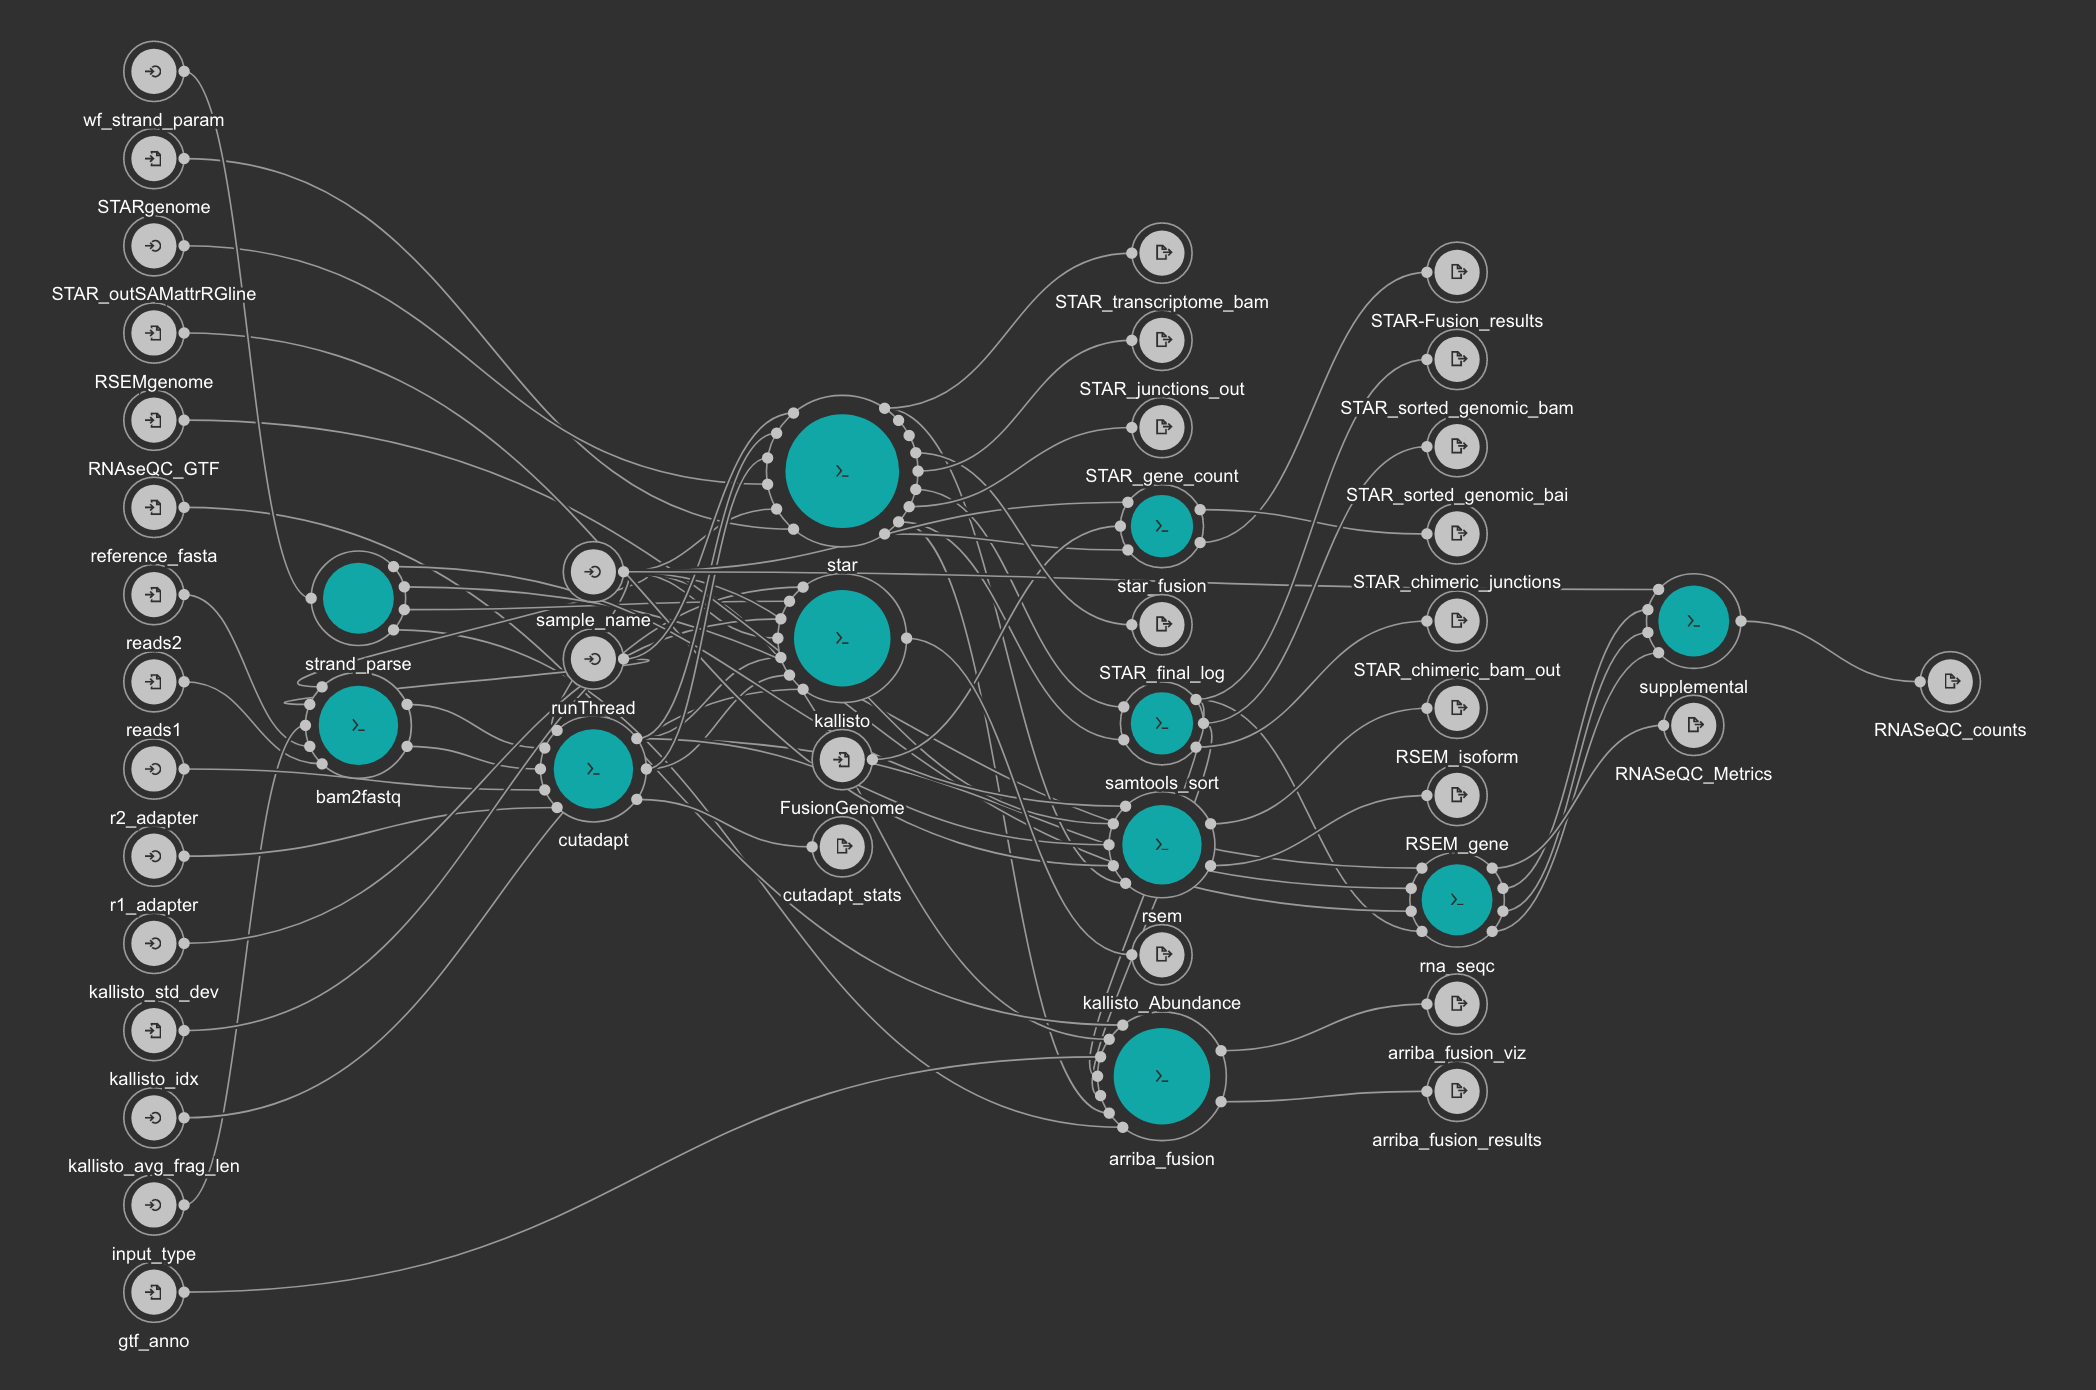
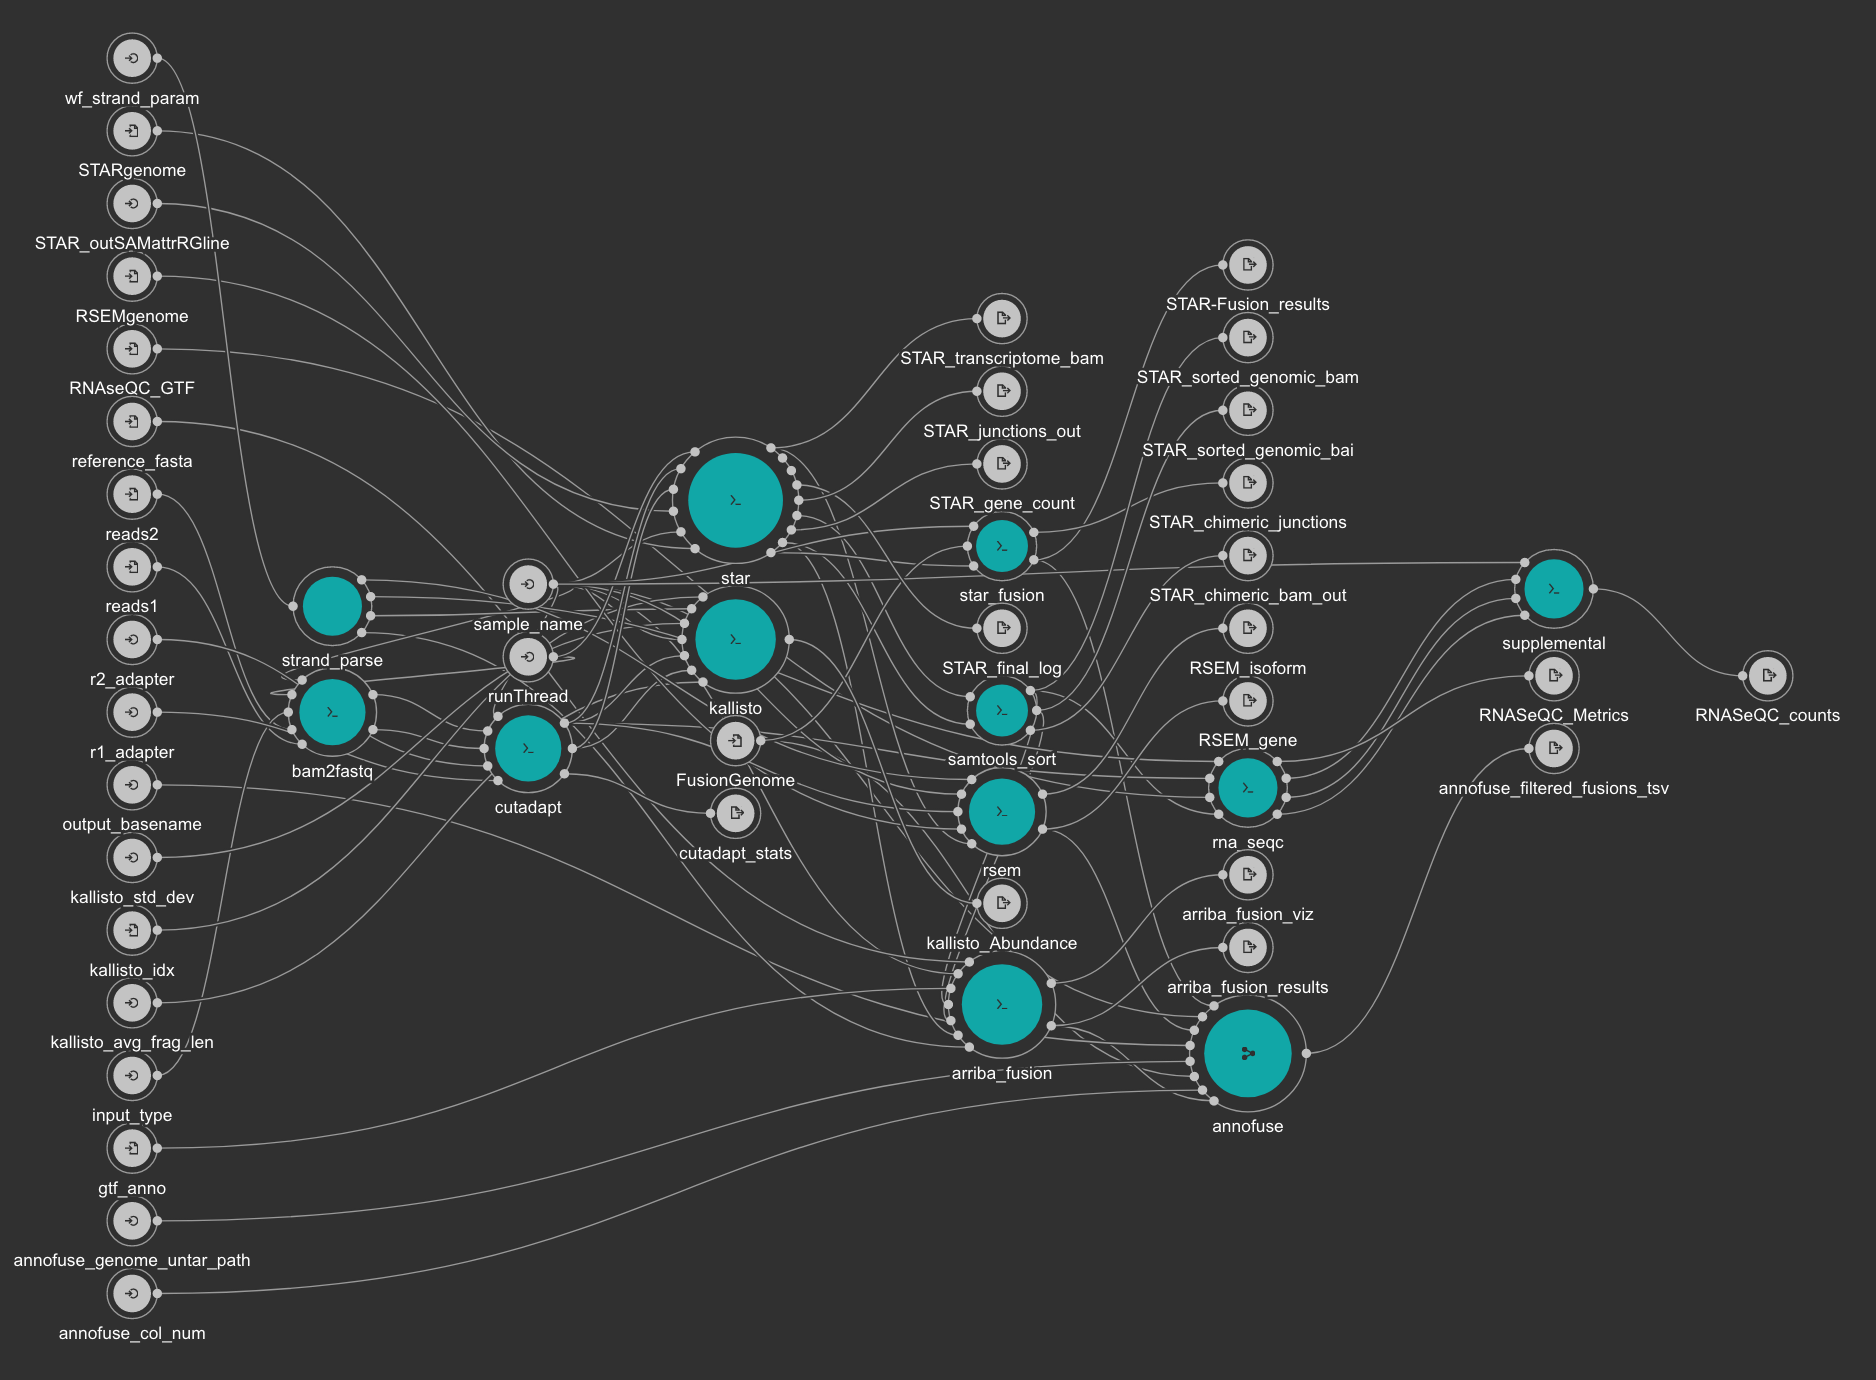
:tada: added new annofuse wf to main rnaseq wf

diff --git a/README.md b/README.md
@@ -9,6 +9,7 @@ This pipeline utilizes cutadapt to trim adapters from the raw reads, if necessar
 The alignment output is used by RSEM for gene expression abundance estimation.
 Additionally, Kallisto is used for quantification, but uses pseudoalignments to estimate the gene abundance from the raw data.
 Fusion calling is performed using Arriba and STAR-Fusion detection tools on the STAR alignment outputs.
+Filtering and prioritization of fusion calls is done by annoFuse.
 Metrics for the workflow are generated by RNA-SeQC.
 
 If you would like to run this workflow using the cavatica public app, a basic primer on running public apps can be found [here](https://www.notion.so/d3b/Starting-From-Scratch-Running-Cavatica-af5ebb78c38a4f3190e32e67b4ce12bb).
@@ -27,6 +28,8 @@ This workflow is the current production workflow, equivalent to this [Cavatica p
 [STAR-Fusion v1.5.0](https://doi:10.1101/120295) Fusion detection for `STAR` chimeric reads.
 ### Arriba
 [Arriba v1.1.0](https://github.com/suhrig/arriba/) Fusion caller that uses `STAR` aligned reads and chimeric reads output.
+### AnnoFuse
+[AnnoFuse 0.90.0](https://github.com/d3b-center/annoFuse/releases/tag/v0.90.0) Filter and prioritize fusion calls.
 ### RNA-SeQC
 [RNA-SeQC v2.3.4](https://github.com/broadinstitute/rnaseqc) Generate metrics such as gene and transcript counts, sense/antisene mapping, mapping rates, etc
 
@@ -79,10 +82,10 @@ inputs:
 1) For fastq or bam input, run `kfdrc-rnaseq-wf` as this can accept both file types.
 For PE fastq input, please enter the reads 1 file in `reads1` and the reads 2 file in `reads2`.
 For SE fastq input, enter the single ends reads file in `reads1` and leave `reads2` empty as it is optional.
-For bam input, please enter the reads file in `reads1` and leave `reads2` empty as it is optional. 
+For bam input, please enter the reads file in `reads1` and leave `reads2` empty as it is optional.
 
-2) `r1_adapter` and `r2_adapter` are OPTIONAL. 
-If the input reads have already been trimmed, leave these as null and cutadapt step will simple pass on the fastq files to STAR. 
+2) `r1_adapter` and `r2_adapter` are OPTIONAL.
+If the input reads have already been trimmed, leave these as null and cutadapt step will simple pass on the fastq files to STAR.
 If they do need trimming, supply the adapters and the cutadapt step will trim, and pass trimmed fastqs along.
 
 3) `wf_strand_param` is a workflow convenience param so that, if you input the following, the equivalent will propagate to the four tools that use that parameter:
@@ -91,7 +94,7 @@ If they do need trimming, supply the adapters and the cutadapt step will trim, a
     - `fr-stranded`: 'rsem_std': 1, 'kallisto_std': 'fr-stranded', 'rnaseqc_std': 'fr', 'arriba_std': 'yes'. This means if read1 in the input fastq/bam is the same sense (maps 5' to 3') to the transcript that it maps to.
 
 4) Suggested `STAR_outSAMattrRGline`, with **TABS SEPARATING THE TAGS**,  format is:
-    
+
     `ID:sample_name LB:aliquot_id   PL:platform SM:BSID` for example `ID:7316-242   LB:750189 PL:ILLUMINA SM:BS_W72364MN`
 5) Suggested inputs are:
 
@@ -100,7 +103,7 @@ If they do need trimming, supply the adapters and the cutadapt step will trim, a
     - `RNAseQC_GTF`: gencode.v27.primary_assembly.RNAseQC.gtf, built using `gtf_anno` and following build instructions [here](https://github.com/broadinstitute/rnaseqc#usage)
     - `RSEMgenome`: RSEM_GENCODE27.tar.gz, built using the `reference_fasta` and `gtf_anno`, following `GENCODE` instructions from [here](https://deweylab.github.io/RSEM/README.html), then creating a tar ball of the results.
     - `STARgenome`: STAR_GENCODE27.tar.gz, created using the star_genomegenerate.cwl tool, using the `reference_fasta`, `gtf_anno`, and setting `sjdbOverhang` to 100
-    - `reference_fasta`: [GRCh38.primary_assembly.genome.fa](ftp://ftp.ebi.ac.uk/pub/databases/gencode/Gencode_human/release_27/GRCh38.primary_assembly.genome.fa.gz), will need to unzip 
+    - `reference_fasta`: [GRCh38.primary_assembly.genome.fa](ftp://ftp.ebi.ac.uk/pub/databases/gencode/Gencode_human/release_27/GRCh38.primary_assembly.genome.fa.gz), will need to unzip
     - `kallisto_idx`: gencode.v27.kallisto.index, built from gencode 27 trascript fasta: ftp://ftp.ebi.ac.uk/pub/databases/gencode/Gencode_human/release_27/gencode.v27.transcripts.fa.gz, following instructions from [here](https://pachterlab.github.io/kallisto/manual)
 
 ### Outputs:
@@ -123,6 +126,7 @@ outputs:
   RNASeQC_Metrics: {type: File, outputSource: rna_seqc/Metrics}
   RNASeQC_counts: {type: File, outputSource: supplemental/RNASeQC_counts} # contains gene tpm, gene read, and exon counts
   kallisto_Abundance: {type: File, outputSource: kallisto/abundance_out}
+  annofuse_filtered_fusions_tsv: { type: 'File?', outputSource: annoFuse_filter/filtered_fusions_tsv, doc: "Filtred output of formatted and annotated Star Fusion and arriba results" }
 ```
 
 # D3b annoFuse Workflow
@@ -133,7 +137,7 @@ In this workflow, annoFuse performs standardization of StarFusion and arriba out
 
 Please refer to [annoFuse](https://github.com/d3b-center/annoFuse) R package for additional applications like putative oncogene annotations.
 
-Current version is 0.1.8, docker pull tag: `kfdrc/annofuse:0.1.8`
+Current version is 0.90.0, docker pull tag: `kfdrc/annofuse:0.90.0`
 
 ## Usage
 
@@ -141,14 +145,14 @@ Current version is 0.1.8, docker pull tag: `kfdrc/annofuse:0.1.8`
 
 ```yaml
 inputs:
-  sample_name: {type: string, doc: "Sample name used for file base name of all outputs"}
-  FusionGenome: {type: File, doc: "GRCh38_v27_CTAT_lib_Feb092018.plug-n-play.tar.gz", sbg:suggestedValue: {class: 'File', path: '5d8bb21fe4b0950c4028f854', name: 'GRCh38_v27_CTAT_lib_Feb092018.plug-n-play.tar.gz'}}
-  genome_untar_path: {type: ['null', string], doc: "This is what the path will be when genome_tar is unpackaged", default: "GRCh38_v27_CTAT_lib_Feb092018/ctat_genome_lib_build_dir"}
-  rsem_expr_file: {type: File, doc: "gzipped rsem gene expression file"}
-  arriba_output_file: {type: File, doc: "Output from arriba, usually extension arriba.fusions.tsv"}
-  col_num: {type: ['null', int], doc: "column number in file of fusion name", default: 25}
-  star_fusion_output_file: {type: File, doc: "Output from arriba, usually extension STAR.fusion_predictions.abridged.coding_effect.tsv"}
-  output_basename: string # Final file output base name
+  sample_name: { type: 'string', doc: "Sample name used for file base name of all outputs" }
+  FusionGenome: { type: 'File', doc: "GRCh38_v27_CTAT_lib_Feb092018.plug-n-play.tar.gz", sbg:suggestedValue: { class: 'File', path: '5d9c8d04e4b0950cce147f94', name: 'GRCh38_v27_CTAT_lib_Feb092018.plug-n-play.tar.gz' }}
+  genome_untar_path: { type: 'string?', doc: "This is what the path will be when genome_tar is unpackaged", default: "GRCh38_v27_CTAT_lib_Feb092018/ctat_genome_lib_build_dir" }
+  rsem_expr_file: { type: 'File', doc: "gzipped rsem gene expression file" }
+  arriba_output_file: { type: 'File', doc: "Output from arriba, usually extension arriba.fusions.tsv" }
+  col_num: { type: 'int?', doc: "column number in file of fusion name." }
+  star_fusion_output_file: { type: 'File', doc: "Output from arriba, usually extension STAR.fusion_predictions.abridged.coding_effect.tsv" }
+  output_basename: { type: 'string', doc: "String to use as basename for outputs" }
 ```
 
 ### Run
